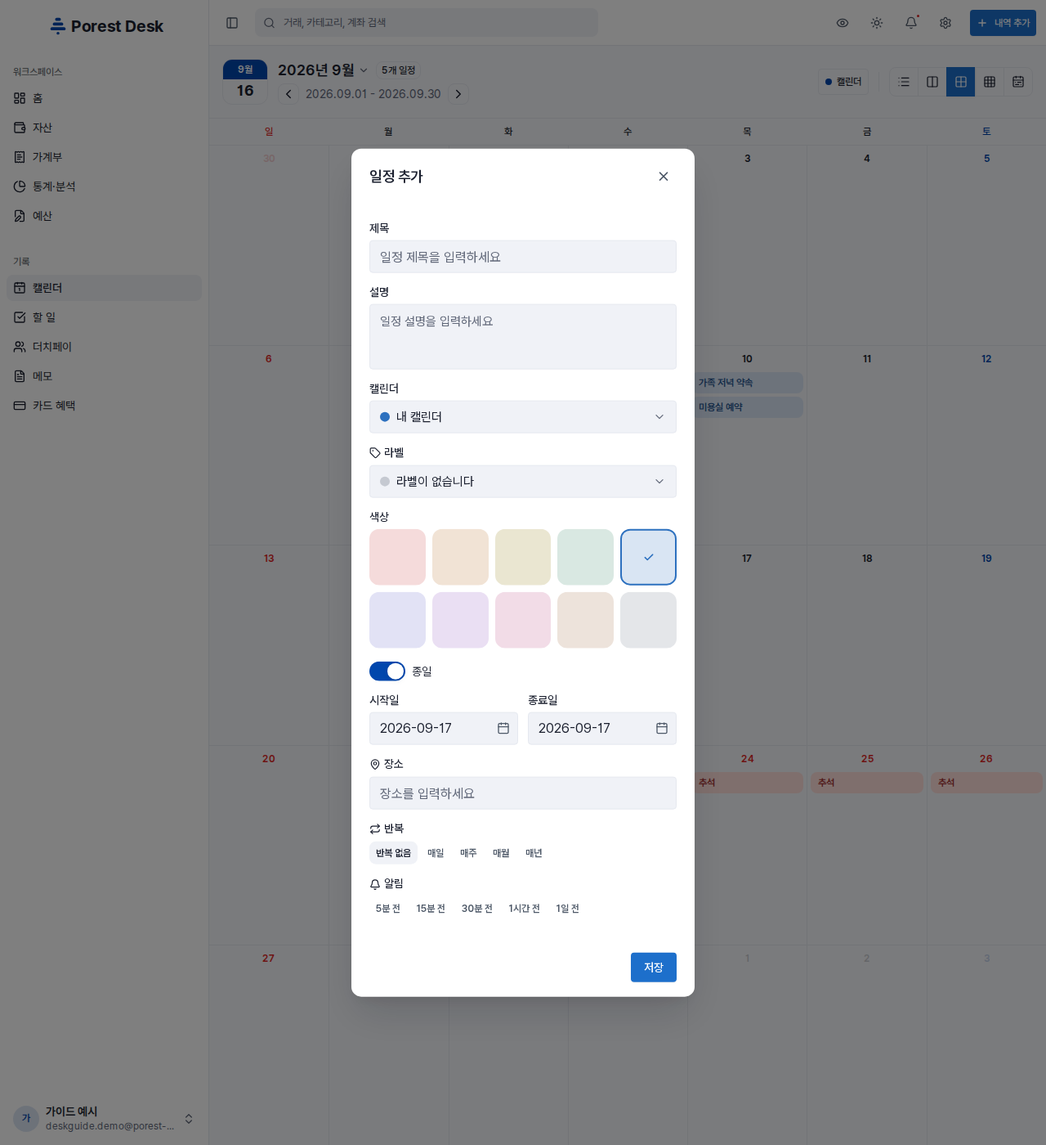
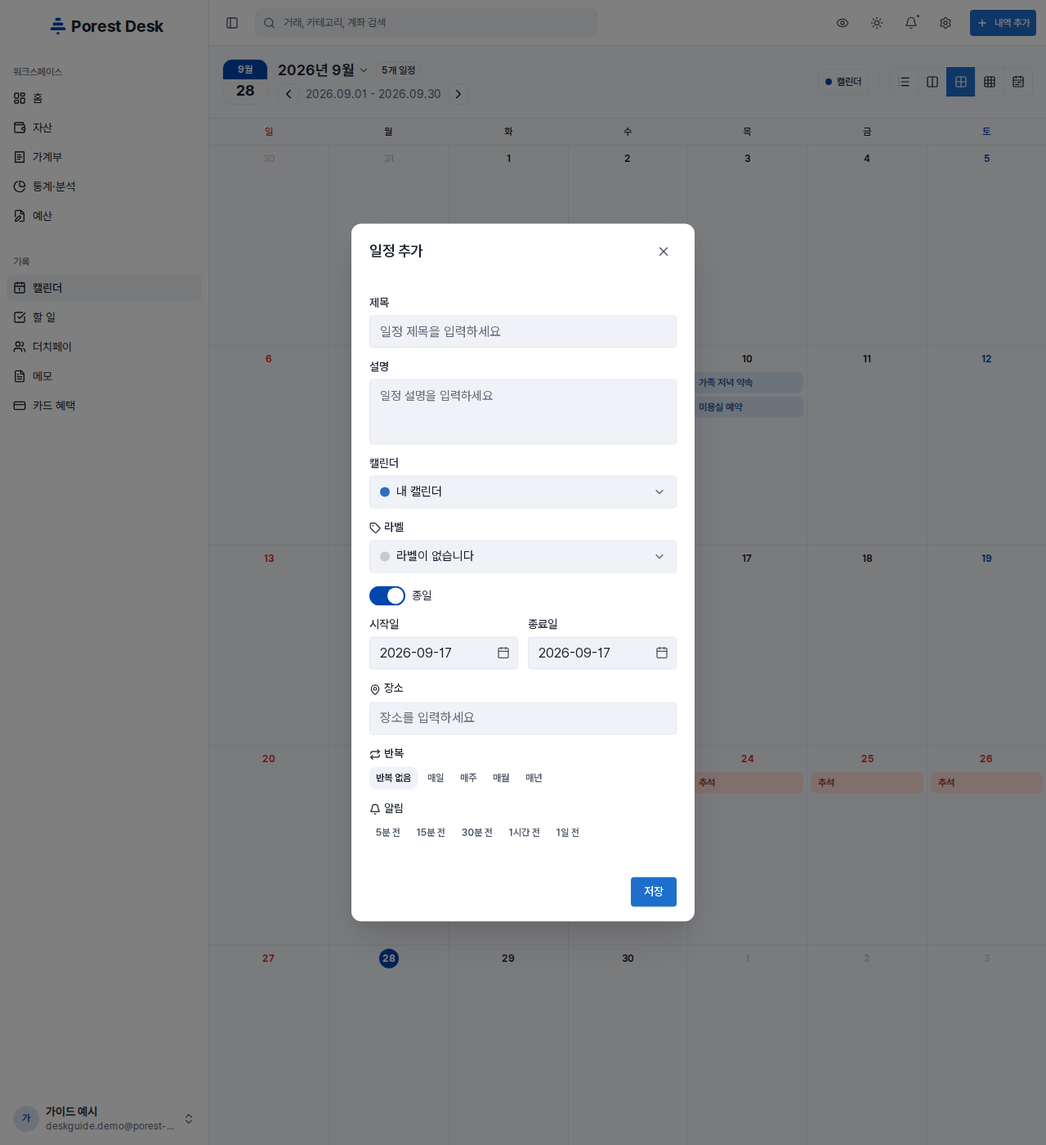
docs: QA 30 에서 고친 동작으로 설명서를 바로잡는다
#28 은 사용자가 지금 겪는 버그를 그대로 적고 경고 상자로 우회법을 달았다. 그 버그들을
QA 30 라운드에서 고쳤으므로(desk-back #360·#361·#362, desk-front #423·#424,
desk-app #403·#404) 경고를 걷고 실제 동작으로 바꾼다.

- 캘린더: 일정 폼의 색상 칸 걷음(스크린샷 둘 재촬영) · 반복 일정은 연 회차에서 바꾼 만큼만
  전체가 옮겨진다 · 지운 라벨의 일정은 라벨 없음
- 반복 거래: 첫 회차가 오늘이면 저장 즉시 기록 · 회차는 시작일부터(매년은 시작일 월·일) ·
  거래에서 만든 반복은 그 거래가 이번 회차 · 주기 칸을 바꿀 때만 다시 계산 · 다시 켜면
  멈춘 동안의 회차는 건너뜀 · 밀린 회차는 회차 날짜로 따라잡음
- 메모 폼의 '상단에 고정' 저장 · 더치페이 '나도 포함' 을 끄면 나는 0원 결제자 ·
  프리셋 앱 저장과 모바일 웹 스와이프 확인창 한 번 · 필터 기간 기본값은 보던 달 ·
  하위 카테고리 칸에서 상위 걷음 · 데스크톱 예산 미래 달 · 증권 링크가 설정 › 계정으로 ·
  결제계좌를 지우면 카드 칸이 비워짐

알림 스위치(QA 30 9)는 따로 한 라운드라 "준비 중" 그대로 둔다.

diff --git a/docs/settings/recurring.md b/docs/settings/recurring.md
@@ -47,22 +47,22 @@ title: 반복거래
 
 ## 언제 기록되나요
 
-기록은 **매일 자정(한국 시간)에 한 번** 돕니다. 그날이 실행일인 반복이 **그날 날짜 · 실행 시각**의 거래로 만들어집니다.
+기록은 **매일 자정(한국 시간)에 한 번** 돕니다. 그날까지 돌아온 회차가 **회차 날짜 · 실행 시각**의 거래로 만들어집니다. 저장할 때 첫 회차가 **오늘**이면 자정을 기다리지 않고 **저장하는 순간** 오늘 거래가 만들어집니다.
 
 - 실행 시각 전까지는 [거래내역](../expense/transactions.md#목록의-한-줄)에 **예정**으로 흐리게 보이고, **합계 · 잔액 · 예산에 들어가지 않습니다.** 실행 시각이 지나면 그때부터 반영됩니다 — 실행 시각이 09:00 이면 자정부터 오전 9시까지 '예정'입니다
 - 기록된 거래는 **보통 거래와 같습니다.** 고치거나 지울 수 있고, 반복 설정과 이어져 있지 않아 서로 영향을 주지 않습니다
 - 지출 · 수입 반복은 **원화 · 일시불**로 기록됩니다(통화 · 할부 칸이 없습니다). 이체 반복은 [이체](#반복-이체--매달-같은-날-계좌-사이에서-옮기기)를 만듭니다
-- 첫 기록일은 **반복 시작일(이미 지났으면 오늘)부터 처음 돌아오는 반복 날짜**입니다(매년은 [아래](#반복거래-생성) 예외)
+- 회차는 **반복 시작일부터 주기대로** 셉니다. 첫 기록일은 그 회차 가운데 **오늘이거나 오늘 뒤로 처음 오는 날**입니다 — 시작일이 이미 지났어도 기준은 시작일이라, 매년 반복은 늘 시작일의 월 · 일에 기록됩니다
+- 점검 등으로 자정 기록이 멈췄던 날이 있으면, 다음 기록 때 밀린 회차가 **각 회차 날짜로** 한꺼번에 기록됩니다([일시정지](#반복거래-수정--일시정지)해 둔 동안의 회차는 건너뜁니다)
 - 반복에 걸어 둔 계좌 · 카드를 지우면, 지출 · 수입 반복은 **지운 계좌 앞으로 계속 기록**되고 이체 반복은 **안내 없이 기록되지 않습니다.** 계좌를 지우기 전에 그 계좌를 쓰는 반복을 고치거나 지우세요
 
-:::warning[첫 기록일이 '오늘'이면 그 회차는 다음 날 기록돼요]
-자정은 하루에 한 번뿐이라, 저장할 때 첫 기록일이 **오늘**로 잡히면 오늘 몫은 이미 지나간 자정을 놓칩니다. 그 회차는 **다음 날 자정에 다음 날 날짜로** 기록됩니다 — 목록 · 다가오는 7일에는 '오늘'로 보이는데 오늘 날짜의 거래는 생기지 않습니다. 이런 때 생깁니다.
+:::info[오늘 몫을 이미 적었다면]
+창을 처음 열린 그대로 저장하면(반복 시작일 · 반복 일자 · 요일이 모두 오늘) **오늘 거래가 바로 하나 생깁니다.** 오늘 몫을 이미 따로 적었다면 **반복 시작일을 다음 회차 날짜**로 잡으세요(오늘 낸 월세라면 다음 달 같은 날).
 
-- **창을 처음 열린 그대로 저장할 때** — 반복 시작일이 오늘이고, 반복 일자 · 요일도 오늘로 채워져 있습니다
-- **오늘 기록한 거래 · 이체**의 [반복 설정](#거래-상세에서-반복으로-만들기)으로 반복을 만들 때 — 시작일이 그 거래 날짜(오늘)로 잡혀, 요일 · 반복 일자를 그대로 두면(매년은 언제나) 이미 적힌 오늘 거래와 별도로 **다음 날 같은 거래가 한 번 더** 기록됩니다
-- 매주 · 매월 반복을 **실행일 당일에 수정**할 때 — 저장하면서 다음 실행일이 다시 오늘로 잡혀, 자정에 기록된 것과 별도로 **다음 날 한 번 더** 기록됩니다
+- **거래 상세**의 [반복 설정](#거래-상세에서-반복으로-만들기)으로 만들면 그 거래가 이번 회차로 쳐져, 같은 거래가 한 번 더 생기지 않습니다
+- **이체 상세**의 [반복 설정]은 추가 창을 채워 여는 것이라, 오늘 한 이체로 열었다면 시작일을 다음 회차 날짜로 바꾸세요
 
-오늘 몫을 이미 적었거나 따로 적을 생각이라면 **반복 시작일을 다음 회차 날짜**로 잡으세요(오늘 낸 월세라면 다음 달 같은 날). 한 번 더 기록된 거래는 [거래내역](../expense/transactions.md#거래-삭제)에서 지우면 되고, 반복 설정에는 영향이 없습니다.
+겹쳐 기록된 거래는 [거래내역](../expense/transactions.md#거래-삭제)에서 지우면 되고, 반복 설정에는 영향이 없습니다.
 :::
 
 ## 반복거래 생성
@@ -105,7 +105,7 @@ title: 반복거래
 - **매일** — 날마다 기록합니다
 - **매주** — **요일**(일 ~ 토) 하나를 고릅니다
 - **매월** — **반복 일자**에 1 ~ 31 사이 날짜를 넣습니다("매월 [ ] 일")
-- **매년** — 날짜 칸이 따로 없고 **반복 시작일의 월 · 일**에 기록합니다. 시작일이 이미 지났으면 **저장한 날**이 기준이 되어 다음 날 한 건이 기록되고, 그 뒤로는 해마다 저장한 날짜에 기록됩니다 — 매년 반복은 시작일을 **다가오는 날짜**로 넣으세요
+- **매년** — 날짜 칸이 따로 없고 **반복 시작일의 월 · 일**에 해마다 기록합니다. 시작일이 이미 지났으면 다음에 돌아오는 그 월 · 일부터입니다(3월 10일 시작이면 올해 3월 10일이 지났을 때 내년 3월 10일)
 
 새로 만들 때 요일 · 반복 일자는 창을 열 때의 반복 시작일로 채워지고, 나중에 시작일을 바꿔도 따라 바뀌지 않습니다.
 
@@ -123,7 +123,7 @@ title: 반복거래
 
 [거래 상세](../expense/transactions.md#거래-상세)의 **[반복 설정]** 을 누르면 그 거래를 본뜬 **반복 설정** 창이 열립니다. 금액 · 카테고리 · 계좌 · 거래처 · 결제 수단 · 메모는 그 거래 그대로 쓰고, **반복 주기 · 종료(처음엔 거래일 1년 뒤까지) · 옵션**만 골라 **[반복 저장]** 을 누릅니다.
 
-- 반복 시작일은 **그 거래 날짜로 고정**돼 바꿀 칸이 없습니다. **오늘** 거래로 만들면 요일 · 반복 일자를 그대로 둘 때 다음 날 같은 거래가 한 번 더 기록되고([위 주의](#언제-기록되나요)), **매년** 반복은 지난 거래로 만들어도 저장한 날로 기준일이 옮겨져 다음 날 한 건이 기록됩니다. 이럴 땐 이 화면의 **[+ 추가]** 로 시작일을 다음 회차 날짜로 잡아 만드세요
+- 반복 시작일은 **그 거래 날짜로 고정**돼 바꿀 칸이 없습니다. 그 거래가 **이번 회차**로 쳐지므로, 오늘 거래로 만들어도 같은 거래가 한 번 더 기록되지 않고 다음 회차부터 기록됩니다
 - 실행 시각은 앱에서만 고를 수 있고, 웹은 09:00 으로 저장됩니다
 - 앱은 원래 거래에 카테고리가 있어야 저장됩니다
 - 만든 뒤에는 원래 거래 상세의 [반복 설정]에 "연결됨" 이 붙습니다
@@ -167,7 +167,7 @@ title: 반복거래
 ![반복 거래 수정 — 추가 창과 같은 칸이 저장된 값으로 채워져 열리고, 버튼은 [반복 저장]입니다](/img/screens/settings-recurring-edit-form.png)
 
 - 바뀐 값은 **다음 기록부터** 쓰입니다. 이미 기록된 거래(오늘 자정에 만들어진 '예정' 거래 포함)는 그대로입니다
-- 저장하면 다음 실행일을 반복 시작일과 오늘을 기준으로 **다시 계산**합니다. 매주 · 매월 반복을 실행일 당일에 고치면 그날 몫이 [한 번 더 기록](#언제-기록되나요)되고, 시작일이 지난 **매년** 반복은 금액만 고쳐도 기준일이 저장한 날로 옮겨집니다 — 이럴 땐 반복 시작일을 다음 회차 날짜로 함께 바꿔 저장하세요
+- 다음 실행일은 **반복 시작일 · 주기 · 요일 · 반복 일자**를 바꿨을 때만 다시 계산합니다. 금액 · 계좌 · 메모만 고치면 다음 실행일은 그대로입니다. 바꾼 주기로 첫 회차가 오늘이 되고 오늘 몫이 아직 없으면 저장하는 순간 기록됩니다
 - 횟수 지정의 "N/M회"는 처음부터 센 값이라, 수정해도 0부터 다시 세지 않습니다
 
 **일시정지** — 지우지 않고 자동 기록만 멈춥니다. 데스크톱은 행의 **일시정지(⏸) 아이콘**, 모바일 웹은 상세의 **[일시정지]**, 앱은 행을 밀어서 나오는 **[정지]** 를 누릅니다. 멈춘 행은 흐려지고 **일시정지** 배지가 붙으며, 같은 자리의 **재생(▶) 아이콘**(데스크톱) · **[시작]**(모바일)으로 언제든 다시 켭니다.
@@ -176,8 +176,8 @@ title: 반복거래
 일시정지된 반복거래는 "다가오는 7일" 목록과 "매월 고정 지출 · 수입" 합계에서 빠지고, 지출 · 수입 · 이체 탭 대신 **일시정지** 탭과 요약의 "일시정지" 개수에 잡힙니다. 완전히 삭제하는 것과 달리 설정값은 그대로 남아 있습니다.
 :::
 
-:::warning[다시 켜면 멈춰 있던 동안의 회차가 몰아서 기록돼요]
-멈춘 사이 지나간 회차는 건너뛰지 않습니다. 다시 켜면 그다음 자정부터 밀린 회차가 **하루에 한 건씩, 기록되는 날의 날짜로** 쌓입니다(종료일 · 횟수 안에서). 매월 반복이 세 번 밀렸다면 다시 켠 다음 날부터 사흘 연속 한 건씩 생기는 식입니다. 밀린 회차가 필요 없으면 **다시 켜기 전에** 수정 창을 열어 **[반복 저장]** 을 한 번 누르세요 — 다음 실행일이 오늘 기준으로 다시 잡힙니다.
+:::info[다시 켜면 멈춰 있던 동안의 회차는 건너뜁니다]
+멈춘 사이 지나간 회차는 기록되지 않습니다. 다시 켜면 **그날 이후 처음 돌아오는 회차**부터 기록되고, 오늘이 회차 날이고 오늘 몫이 아직 없으면 켜는 순간 기록됩니다. 멈춘 동안의 거래가 필요하면 [거래내역](../expense/transactions.md#거래-생성)에서 따로 적으세요.
 :::
 
 ## 반복거래 삭제

diff --git a/docs/calendar/calendar.md b/docs/calendar/calendar.md
@@ -46,7 +46,6 @@ title: 캘린더
 | 설명 | 10,000자까지. 상세에서는 **메모**로 보입니다 |
 | 캘린더 | 처음엔 **기본 캘린더**. [캘린더 목록](#여러-캘린더-표시--숨기기)에서 숨겨 둔 캘린더는 고를 수 없습니다 |
 | 라벨 | [라벨](../settings/calendar.md)을 하나 이상 만들어 두었을 때만 보입니다. "라벨 없음" 으로 둘 수 있습니다 |
-| 색상 | 10가지 중 고릅니다 — 다만 화면에 보이는 색은 아래 안내를 보세요 |
 | 종일 | 처음엔 켜져 있습니다. 끄면 시작 · 종료에 시각 칸(5분 단위, 처음엔 09:00 ~ 10:00)이 붙습니다 |
 | 시작일 · 종료일 | 시작을 종료보다 뒤로 옮기면 종료가 따라 옮겨집니다. 종료가 시작보다 앞이면 "종료일이 시작일보다 빠를 수 없어요" 가 뜨고 저장이 막힙니다. 지난 날짜로 등록하는 건 자유롭습니다 |
 | 장소 | 500자까지 |
@@ -58,18 +57,18 @@ title: 캘린더
 <Tabs groupId="device">
 <TabItem value="desktop" label="데스크톱">
 
-![일정 추가 — 제목·캘린더·색상 라벨·종일 여부·기간·장소·반복·알림을 한 화면에서 설정합니다](/img/screens/calendar-add-form.png)
+![일정 추가 — 제목·설명·캘린더·라벨·종일 여부·기간·장소·반복·알림을 한 화면에서 설정합니다](/img/screens/calendar-add-form.png)
 
 </TabItem>
 <TabItem value="mobile" label="모바일">
 
-![일정 추가 — 제목·캘린더·색상 라벨·종일 여부·기간·장소·반복·알림을 한 화면에서 설정합니다](/img/screens/mobile-calendar-add-form.png)
+![일정 추가 — 제목·설명·캘린더·라벨·종일 여부·기간·장소·반복·알림을 한 화면에서 설정합니다](/img/screens/mobile-calendar-add-form.png)
 
 </TabItem>
 </Tabs>
 
 :::info[일정은 라벨 색, 없으면 캘린더 색으로 보여요]
-캘린더에 보이는 일정 색은 **라벨을 붙였으면 라벨 색**, 없으면 **그 일정이 든 캘린더의 색**입니다. 일정 폼의 **색상**은 지금 화면 표시에 쓰이지 않으니, 일정마다 색을 달리하고 싶다면 라벨을 쓰세요. 캘린더를 바꾸면 색상 칸도 그 캘린더 색으로 바뀝니다.
+캘린더에 보이는 일정 색은 **라벨을 붙였으면 라벨 색**, 없으면 **그 일정이 든 캘린더의 색**입니다. 일정마다 색을 고르는 칸은 없으니, 일정마다 색을 달리하고 싶다면 [라벨](../settings/calendar.md)을 쓰세요.
 :::
 
 ## 일정 확인 · 수정
@@ -97,9 +96,12 @@ title: 캘린더
 </Tabs>
 
 :::warning[반복 일정은 "전체"를 고치고 지웁니다]
-반복 일정은 회차마다 따로 있는 게 아니라 **일정 하나가 반복해서 보이는 것**입니다. 그래서 어느 회차를 열어 고치든 지우든 **반복 전체에 적용**되고, "이번 회차만" 고르는 선택지는 없습니다.
+반복 일정은 회차마다 따로 있는 게 아니라 **일정 하나가 반복해서 보이는 것**입니다. 그래서 어느 회차를 열어 고치든 지우든 **반복 전체에 적용**되고, "이번 회차만" 고르는 선택지는 없습니다. 어느 회차에서 열었든 **그 회차에서 바꾼 만큼** 반복 전체가 따라옵니다.
 
-특히 **뒤쪽 회차를 열어 [저장]하면, 반복의 시작일이 그 회차 날짜로 옮겨져 그 앞 회차들이 캘린더에서 사라집니다** — 아무 칸도 바꾸지 않고 저장만 해도 그렇습니다. 반복 일정을 고칠 때는 **첫 회차**를 열어 고치세요.
+- 아무 칸도 바꾸지 않고 **[저장]** 하면 그대로입니다
+- 시각을 바꾸면 **모든 회차의 시각**이 같이 바뀝니다 — 셋째 회차를 열어 10시를 11시로 옮기면 지난 회차까지 모두 11시가 됩니다
+- 날짜를 옮기면 **반복 전체가 같은 만큼** 옮겨집니다 — 매주 월요일 반복의 한 회차를 화요일로 하루 미루면 모든 회차가 화요일이 됩니다
+- 반복을 **반복 없음**으로 바꾸면 **열어 둔 그 회차 하나만** 일정으로 남고, 나머지 회차는 캘린더에서 사라집니다
 :::
 
 ## 일정 삭제

diff --git a/docs/dutch-pay/dutch-pay.md b/docs/dutch-pay/dutch-pay.md
@@ -105,7 +105,7 @@ title: 더치페이
    - **N분의 1**(균등 분배): 총액을 인원수로 똑같이 나눕니다. 남는 원 단위는 목록 맨 위 사람(나를 포함하면 나)에게 붙습니다
    - **비율**(인원수·기준): 다른 사람마다 비율 칸(기본 1)이 생기고, 그 비율대로 나눕니다. **내 비율은 1로 고정**이라 친구 칸에 2를 넣으면 그 친구가 나의 두 배를 냅니다 — 칸 옆에 % 가 붙어 있지만 퍼센트가 아니라 나를 1로 본 배수입니다
    - **개별 금액**(각자 다르게): 다른 사람마다 금액을 직접 넣고, 내 몫은 총액에서 그 합을 뺀 금액으로 저절로 채워집니다. 다른 사람 칸에는 추가할 때 계산된 금액이 미리 들어가 있으니 하나씩 확인하세요
-3. **나도 포함해서 분배** — 켜 두면(기본, "내 몫도 계산됩니다") 나도 참여자가 되고 **결제자**로 저장됩니다. 목록의 내 줄에는 **내 계정 이름**과 **나** 표시가 붙습니다
+3. **나도 포함해서 분배** — 켜 두면(기본, "내 몫도 계산됩니다") 나도 참여자가 되고 **결제자**로 저장됩니다. 목록의 내 줄에는 **내 계정 이름**과 **나** 표시가 붙습니다. 끄면 안내("내가 전액 결제, 다른 사람 몫만 받아요") 그대로 **나는 내 몫 0원의 결제자**로 저장되고, 다른 사람 몫만 받을 돈이 됩니다
 4. 함께 나눌 사람을 **이름 입력 후 추가** 칸에 쓰고 **[추가]** 나 Enter 를 누릅니다. 줄 끝 **×** 로 뺍니다. 예전 정산의 친구 목록은 이 창에 나오지 않습니다
 5. **요청 메시지 (선택)** — 참여자에게 보내지지 않습니다. 정산 목록 · 상세에서 **장소** 자리에 보입니다
 6. **[정산 만들기]** — 나눈 금액의 합이 총액과 다르면 "합계가 총액보다 N원 부족합니다." / "합계가 총액보다 N원 초과합니다." 가 뜨고 눌리지 않습니다. 아래의 **1인당**은 분배 방식과 상관없이 총액 ÷ 인원입니다
@@ -123,18 +123,9 @@ title: 더치페이
 </TabItem>
 </Tabs>
 
-:::warning[나도 포함해서 분배를 끄면 결제자가 내가 아니게 됩니다]
-끈 상태의 안내는 "내가 전액 결제, 다른 사람 몫만 받아요" 지만, 저장되는 결과는 다릅니다.
-
-- **웹**: 참여자 목록의 **첫 번째 사람이 결제자**로 저장됩니다. 그 사람의 몫은 받을 돈에서 빠지고, 상세에서도 **결제자**로 보입니다
-- **앱**: [정산 만들기]를 누르면 "결제한 사람을 한 명 골라 주세요" 가 뜨고 만들어지지 않습니다
-
-참여자의 몫은 0원일 수 없어서, 지금은 **나를 결제자로 두면서 내 몫 없이** 다른 사람 몫만 받는 정산을 만들 수 없습니다.
-:::
-
 :::warning[만들기 전에 확인하세요]
 - 이 창은 이름이 겹쳐도 미리 막지 않습니다. 같은 이름(내 계정 이름 포함, 대소문자 · 앞뒤 공백 차이는 같은 이름으로 봄)이 두 번 들어가면 만들 때 "같은 참가자를 중복으로 추가할 수 없어요" 가 뜹니다
-- 누군가의 몫이 0원이면 "참가자 금액은 0보다 커야 해요" 로 거절됩니다. **개별 금액**에서 다른 사람 몫이 총액을 다 채우면 내 몫이 0원이 되니 조심하세요
+- **다른 사람**의 몫이 0원이면 "참가자 금액은 0보다 커야 해요" 로 거절됩니다. 0원이 될 수 있는 건 결제자인 **내 몫**뿐입니다 — **개별 금액**에서 다른 사람 몫이 총액을 다 채우면 내 몫 0원으로 만들어집니다
 - 웹에서 **비율**로 나눌 때 총액이 비율대로 딱 나누어떨어지지 않으면 몇 원이 남거나 넘쳐 만들 수 없습니다 — 10,000원을 1 : 1 : 1 로 나누면 "합계가 총액보다 1원 부족합니다." 가 뜹니다. 이럴 땐 **N분의 1**이나 **개별 금액**을 쓰세요. 앱은 남는 원 단위를 첫 사람에게 붙여 맞춥니다
 :::
 

diff --git a/docs/expense/transactions.md b/docs/expense/transactions.md
@@ -117,7 +117,7 @@ title: 거래내역
 
 ### 적용하면 월 요약도 같이 바뀝니다
 
-**[필터 적용]** 을 누르면 목록뿐 아니라 위쪽 **수입 · 지출 · 합계 요약도 걸러진 거래만으로 다시 계산**됩니다. 필터가 걸려 있는 동안에는 [필터] 버튼에 조건 개수가 붙고(`필터 · 2`), 목록 위에 **"필터 N개 적용 중"** 띠가 뜹니다 — 띠 오른쪽의 **×** 를 누르면 한 번에 모두 해제됩니다.
+**[필터 적용]** 을 누르면 목록뿐 아니라 위쪽 **수입 · 지출 · 합계 요약도 걸러진 거래만으로 다시 계산**됩니다. 필터가 걸려 있는 동안에는 [필터] 버튼에 조건 개수가 붙고(`필터 · 2` — 기간만 보던 달과 다르게 바꿔 걸어도 붙습니다), 목록 위에 **"필터 N개 적용 중"** 띠가 뜹니다 — 띠 오른쪽의 **×** 를 누르면 한 번에 모두 해제됩니다.
 
 <Tabs groupId="device">
 <TabItem value="desktop" label="데스크톱">
@@ -133,11 +133,11 @@ title: 거래내역
 </Tabs>
 
 :::info[[초기화] 는 창 안의 값만 되돌립니다]
-**[초기화]** 를 누르면 창이 닫히지 않고 조건만 처음 상태(모두 일치 · 이번 달)로 돌아갑니다. 실제 목록에 반영하려면 그 뒤에 **[필터 적용]** 까지 눌러야 합니다. 창을 열지 않고 한 번에 풀고 싶다면 목록 위 띠의 **×** 를 쓰세요.
+**[초기화]** 를 누르면 창이 닫히지 않고 조건만 처음 상태(모두 일치 · 보고 있던 달)로 돌아갑니다. 실제 목록에 반영하려면 그 뒤에 **[필터 적용]** 까지 눌러야 합니다. 창을 열지 않고 한 번에 풀고 싶다면 목록 위 띠의 **×** 를 쓰세요.
 :::
 
 :::tip[필터를 거는 동안 목록은 필터의 기간을 따라요]
-필터 창의 기간은 처음에 **이번 달**(오늘이 속한 달)로 잡혀 있습니다 — 지난달을 보다가 필터를 열어도 마찬가지이니, 보던 달을 거르려면 기간을 **직접 선택**으로 바꾸세요. 필터가 걸려 있는 동안에는 위의 달 화살표로 옮겨도 목록이 바뀌지 않습니다. 다른 달을 보려면 필터를 풀거나 기간을 바꾸세요.
+필터 창의 기간은 처음에 **보고 있던 달**로 잡혀 있습니다 — 지난달을 보다가 열면 지난달입니다. 필터가 걸려 있는 동안에는 위의 달 화살표로 옮겨도 목록이 바뀌지 않습니다. 다른 달을 보려면 필터를 풀거나 기간을 바꾸세요.
 :::
 
 **모바일**에서는 필터를 걸면 월 이동 · 합계 · 달력 띠가 숨고, 그 자리에 **걸린 조건이 칩으로** 나란히 붙습니다(예: `이번 달` · `식비` · `토스뱅크 빼고` · `금액 2구간`). 칩마다 **×** 를 누르면 그 조건만 풀립니다.
@@ -169,7 +169,7 @@ title: 거래내역
 :::
 
 :::info[카테고리는 세부 항목만 고를 수 있어요]
-"식비"처럼 하위 항목을 거느린 상위 카테고리는 분류용일 뿐, 거래를 직접 붙일 수 없습니다. "식비 › 외식"처럼 더 이상 나뉘지 않는 **가장 아래 단계**의 카테고리만 거래에 지정할 수 있고, 지출 거래에는 지출용 카테고리만, 수입 거래에는 수입용 카테고리만 고를 수 있습니다. 하위 칸 맨 위에 상위 이름도 보이지만, 그걸 고르고 저장하면 "상위 카테고리에는 거래를 등록할 수 없어요" 가 뜹니다.
+"식비"처럼 하위 항목을 거느린 상위 카테고리는 분류용일 뿐, 거래를 직접 붙일 수 없습니다. "식비 › 외식"처럼 더 이상 나뉘지 않는 **가장 아래 단계**의 카테고리만 거래에 지정할 수 있고, 지출 거래에는 지출용 카테고리만, 수입 거래에는 수입용 카테고리만 고를 수 있습니다.
 :::
 
 ### 프리셋으로 빠르게 넣기

diff --git a/docs/settings/preset.md b/docs/settings/preset.md
@@ -128,11 +128,6 @@ title: 프리셋
 
 이 창은 설정의 [프리셋 추가](#프리셋-생성)와 달리 **이름 12자 제한과 같은 이름 검사를 미리 하지 않습니다.** 같은 이름이면 저장할 때 "같은 이름의 프리셋이 있어요. 뒤에 1, 2를 붙여 구분해 주세요" 가 뜨고, 12자가 넘는 이름은 저장되지만 나중에 웹 [수정](#프리셋-수정) 창에서는 12자 이내로 줄여야 저장됩니다.
 
-:::warning[앱에서 저장이 안 될 때]
-- **계좌 · 카드를 비워 둔 지출 · 수입**은 [저장]을 눌러도 아무 일도 일어나지 않습니다(안내 없이 창이 그대로 남습니다). 계좌를 고른 뒤 저장하세요
-- 이름 칸이 빈 채로 열리면(이체는 늘 빈칸) 이름을 적어도 [저장]이 흐린 채로 남습니다. **금액 잠금** 체크를 한 번 눌렀다 되돌리면 눌리게 됩니다
-:::
-
 ## 프리셋 수정
 
 데스크톱은 행의 **연필 아이콘**, 모바일은 행을 밀어서 나오는 **[수정]** 이나 프리셋 상세의 **[수정]** 을 누릅니다. 추가할 때와 같은 폼이 **프리셋 수정** 이라는 제목으로 열려, 유형 · 이름 · 카테고리 · 기본 내역 · 결제 수단 · 계좌·카드 · 메모 · 고정 금액을 모두 바꾸고 **[저장]** 을 누릅니다.
@@ -157,7 +152,7 @@ title: 프리셋
 
 ## 프리셋 삭제
 
-데스크톱은 행의 **휴지통 아이콘**, 모바일은 행을 밀어서 나오는 **[삭제]** 나 프리셋 상세의 **[삭제]** 를 누르고, 확인 창("○○" 프리셋을 삭제할까요? 이미 저장된 거래 내역에는 영향이 없습니다.)에서 **[삭제]** 를 누릅니다. 모바일 웹에서 행을 밀어 지우면 같은 확인 창이 **한 번 더** 뜨니, 두 번 모두 [삭제]를 눌러야 지워집니다.
+데스크톱은 행의 **휴지통 아이콘**, 모바일은 행을 밀어서 나오는 **[삭제]** 나 프리셋 상세의 **[삭제]** 를 누르고, 확인 창("○○" 프리셋을 삭제할까요? 이미 저장된 거래 내역에는 영향이 없습니다.)에서 **[삭제]** 를 누릅니다.
 
 <Tabs groupId="device">
 <TabItem value="desktop" label="데스크톱">

diff --git a/docs/memo/memo.md b/docs/memo/memo.md
@@ -95,15 +95,11 @@ title: 메모
 
 고정한 메모는 목록 맨 위 **고정** 묶음에 모이고, 상세에는 "고정됨" 이 붙습니다. 고정은 이렇게 켜고 끕니다.
 
+- **추가 · 수정 폼**(웹 · 앱): **상단에 고정** 스위치를 켜고 **[저장]** 하면 고정되고, 끄고 저장하면 풀립니다
 - **모바일**(모바일 웹 · 앱): 행을 왼쪽으로 밀어 **[고정]** 을 누릅니다. 이미 고정한 메모에서는 같은 자리가 모바일 웹은 **[해제]**, 앱은 **[고정 해제]** 입니다
-- **앱**: 추가 · 수정 폼의 **고정** 칸에 있는 **상단에 고정** 스위치로도 켜고 끕니다
-- **데스크톱**: 고정한 카드의 오른쪽 위 **핀**을 누르면 고정이 풀립니다
+- **데스크톱**: 고정한 카드의 오른쪽 위 **핀**을 누르면 고정이 풀립니다. 새로 고정할 때는 폼의 스위치를 쓰세요
 
 고정을 켜거나 끄면 그 메모의 고친 시각이 그때로 바뀌어, 옮겨 간 묶음의 맨 위에 옵니다.
-
-:::warning[웹 폼의 '상단에 고정' 스위치는 지금 저장되지 않아요]
-웹(데스크톱 · 모바일 웹)의 추가 · 수정 폼에도 **상단에 고정** 스위치가 보이지만, 켜고 **[저장]** 해도 고정이 바뀌지 않습니다. 그래서 **데스크톱 화면에서는 메모를 새로 고정할 방법이 없습니다** — 모바일 웹이나 앱에서 행을 밀어 **[고정]** 하세요. 푸는 것은 데스크톱에서도 카드의 핀으로 됩니다.
-:::
 
 ## 메모 삭제
 

diff --git a/docs/settings/calendar.md b/docs/settings/calendar.md
@@ -69,13 +69,9 @@ title: 캘린더 라벨 · 공유
 
 ## 라벨 삭제
 
-행의 **휴지통 아이콘**(모바일은 행을 밀어 **[삭제]**)을 누르면 **"○○" 라벨을 삭제할까요? 이 라벨이 지정된 일정은 라벨 없음 상태가 됩니다.** 확인 창이 뜨고, **[삭제]** 를 누르면 라벨 목록과 일정 추가 창의 라벨 목록에서 사라집니다. 일정 자체는 지워지지 않습니다.
+행의 **휴지통 아이콘**(모바일은 행을 밀어 **[삭제]**)을 누르면 **"○○" 라벨을 삭제할까요? 이 라벨이 지정된 일정은 라벨 없음 상태가 됩니다.** 확인 창이 뜨고, **[삭제]** 를 누르면 라벨 목록과 일정 추가 창의 라벨 목록에서 사라집니다. 그 라벨을 붙여 두었던 일정은 지워지지 않고 **라벨 없음**이 되어, 그 일정이 든 캘린더의 색으로 보입니다.
 
 ![라벨 삭제 확인](/img/screens/settings-calendar-label-delete-confirm.png)
-
-:::warning[이미 붙여 둔 일정에는 라벨이 남아 보여요]
-확인 창의 안내와 달리, 지금은 **그 라벨을 이미 붙여 둔 일정에 지운 라벨의 이름과 색이 그대로 남아 보입니다.** 떼려면 그 일정을 열어 [일정 수정]에서 라벨을 **라벨 없음**(또는 다른 라벨)으로 바꿔 저장하세요.
-:::
 
 ## 캘린더 공유
 

diff --git a/docs/stocks/securities-link.md b/docs/stocks/securities-link.md
@@ -21,7 +21,7 @@ title: 증권사 연동하기
 4. 두 칸을 모두 채우면 **[연결하기]** 가 눌립니다. 칸 오른쪽 눈 아이콘으로 입력한 값을 확인할 수 있습니다
 5. 연결되면 "토스증권 계정을 연결했어요" 가 뜨고, 카드에 **연결됨** 표시와 "토스증권 API 키 연결됨 · 마지막 검증 · 2026-09-24" 가 나옵니다
 
-증권 화면에 뜨는 "증권 계정을 연결해 주세요" 안내의 **[설정에서 연결하기]** 로도 설정으로 갈 수 있습니다. 웹은 설정의 첫 화면이 열리니 **계정**을 골라 들어가세요(앱은 연동 화면이 바로 열립니다).
+증권 화면에 뜨는 "증권 계정을 연결해 주세요" 안내의 **[설정에서 연결하기]** 로도 설정으로 갈 수 있습니다. 웹은 설정의 **계정**이 바로 열리고, 앱은 연동 화면이 바로 열립니다.
 
 :::info[연결하기를 누르는 순간 실제로 확인합니다]
 키는 저장하기 전에 그 자리에서 증권사 서버에 실제로 접속해 확인합니다. 잘못된 키면 "인증정보가 올바르지 않아요" 가 뜨고 저장되지 않으므로, "일단 등록해 두고 나중에 화면을 열었을 때 안 되는" 상황은 생기지 않습니다.

diff --git a/docs/settings/budget.md b/docs/settings/budget.md
@@ -49,7 +49,7 @@ title: 예산 설정
 
 예산은 **달마다 따로** 저장됩니다. 한 달에 전체 예산 하나, 카테고리마다 한도 하나씩이고, 다음 달로 저절로 이어지지 않습니다. 지난 달 예산도 고칠 수 있고, 최근 6개월 안의 달이면 예산 화면의 **최근 6개월 예산 이행률**이 바뀐 한도로 다시 계산됩니다.
 
-- **데스크톱**: 오른쪽 위 달 선택 칸(예: 2026년 9월)을 눌러 연도와 달을 고릅니다. **이번 달보다 뒤의 달은 흐리게 막혀 있어** 고를 수 없고, **오늘로**를 누르면 이번 달로 돌아옵니다
+- **데스크톱**: 오른쪽 위 달 선택 칸(예: 2026년 9월)을 눌러 연도와 달을 고릅니다. 다음 달 이후도 고를 수 있어 **다음 달 예산을 미리 정해 둘 수 있고**, **오늘로**를 누르면 이번 달로 돌아옵니다
 - **모바일(웹 · 앱)**: 맨 위 **‹ · ›** 로 한 달씩 옮기거나, 가운데 달 이름을 눌러 고릅니다. **‹ · ›** 로는 다음 달 이후로도 넘어갈 수 있어서, 다음 달 예산을 미리 정해 둘 수 있습니다
 
 **지난달 복사**
